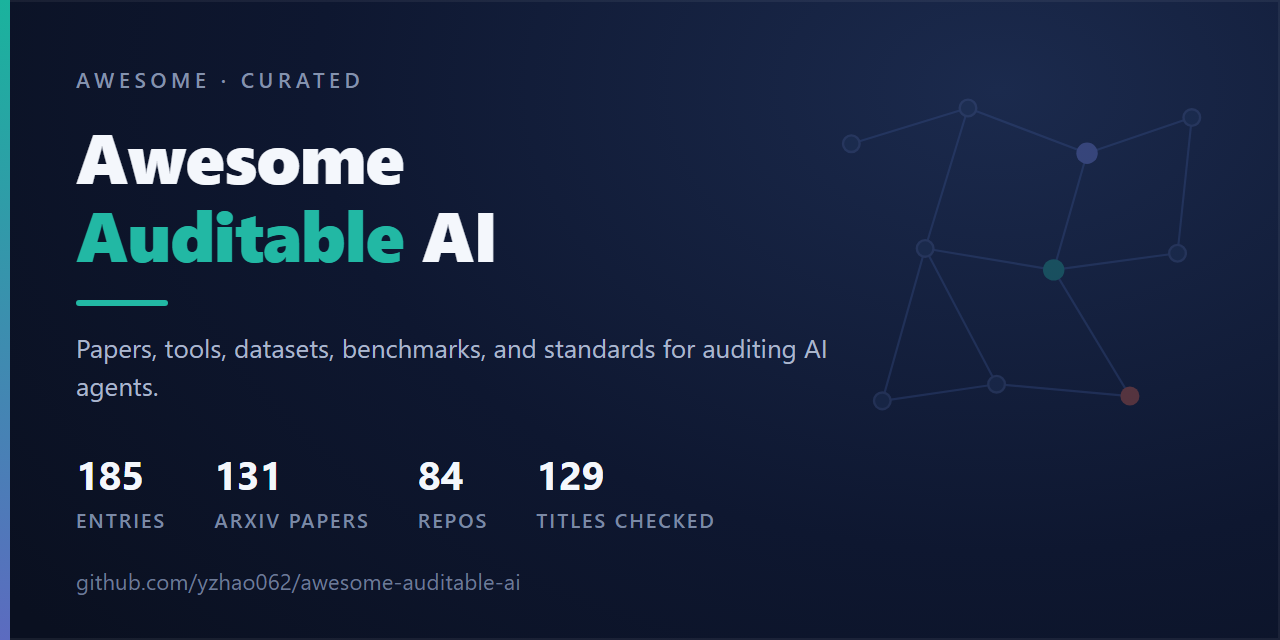
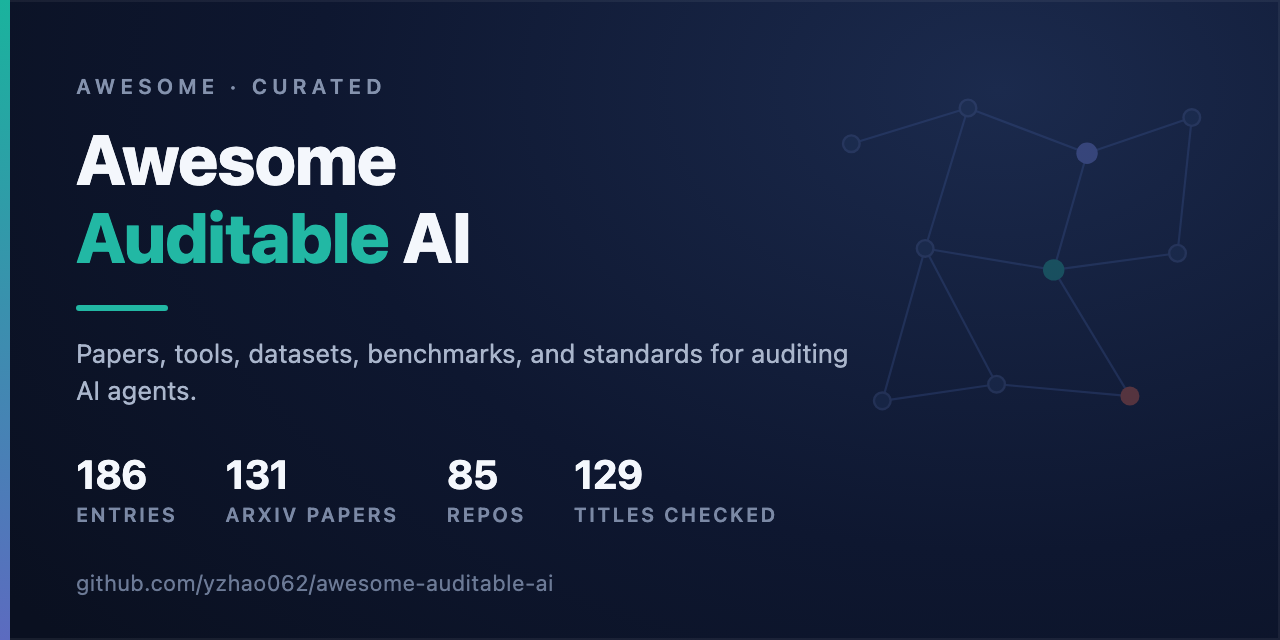
Add AgentRunProof

diff --git a/assets/social-card.html b/assets/social-card.html
@@ -71,9 +71,9 @@
     <div class="tag">Papers, tools, datasets, benchmarks, and standards for auditing AI agents.</div>
 
     <div class="stats">
-      <div class="stat"><div class="n">185</div><div class="l">Entries</div></div>
+      <div class="stat"><div class="n">186</div><div class="l">Entries</div></div>
       <div class="stat"><div class="n">131</div><div class="l">arXiv papers</div></div>
-      <div class="stat"><div class="n">84</div><div class="l">Repos</div></div>
+      <div class="stat"><div class="n">85</div><div class="l">Repos</div></div>
       <div class="stat"><div class="n">129</div><div class="l">Titles checked</div></div>
     </div>
   </div>

diff --git a/README.md b/README.md
@@ -22,7 +22,7 @@
 
 **Agent capability is rising much faster than agent reliability.** *Towards a Science of AI Agent Reliability* (ICML 2026) decomposes reliability into twelve metrics over fifteen models and finds that recent capability gains produced only small reliability gains. The cost of that gap shows up after a run rather than during it: in the original Who&When study (ICML 2025), the strongest of the three attribution methods released with the benchmark identified the responsible agent in 53.5% of 184 annotated failure tasks, drawn from logs of 127 LLM multi-agent systems, and the decisive error step in 14.2%. Later systems in this list, including AgenTracer (ICLR 2026), report gains on that benchmark. What narrows the gap is the quality of the record. TraceElephant (ACL 2026) reports that full execution traces raised step-level attribution accuracy from 17% to 30% in its static-agentic setting, a 76% relative gain over output-only traces.
 
-This list maps the work on that problem: **185 entries across nine sections**, covering 131 unique arXiv papers, 84 GitHub repositories, 16 standards, and one framework. Five papers are deliberately cross-listed, appearing once in a topical section and once as a dataset.
+This list maps the work on that problem: **186 entries across nine sections**, covering 131 unique arXiv papers, 85 GitHub repositories, 16 standards, and one framework. Five papers are deliberately cross-listed, appearing once in a topical section and once as a dataset.
 
 Two properties make the list checkable. Every paper row carries a venue field, so of the 134 table rows, 69 name a publication venue and 65 are marked Preprint; a reader can see the evidence level of a row without opening it. Naming a venue is not the same as peer review, and the field records what the venue is rather than grading it: a non-archival workshop and a main-conference track both appear as what they are. And the citation check goes past asking whether a link responds: each arXiv entry's title is compared with the title the arXiv page itself reports, and only an exact match counts. A near-identical title is not treated as agreement, because that is precisely what a link to the wrong paper in a series looks like; "Part I" against "Part II" scores 0.995 on similarity. The 2026-08-15 run compared 129 entry titles and 131 identifiers across 256 destinations and found no disagreements. It names every destination that refuses automated clients rather than quietly counting it as passing. That run is also what caught a dataset repository going 404 three days after it last resolved. The three destinations it does not audit are this repository's own badges and the pages behind them, and the report names those too.
 
@@ -453,6 +453,8 @@ Tools and platforms for agent observability, evaluation, and reliability. An ins
 **\[Rust, Python\] Microsandbox** ([superradcompany/microsandbox](https://github.com/superradcompany/microsandbox)): self-hosted microVM runtime giving agent code hardware-level isolation at an average boot under 100 milliseconds, spawned in-process with no daemon, with SDKs in five languages. Apache-2.0, 2024-present.
 
 **\[Python\] Giskard** ([Giskard-AI/giskard-oss](https://github.com/Giskard-AI/giskard-oss)): generates adversarial test suites from a plain-language description of the agent across OWASP LLM Top-10 threat categories, with multi-turn agent testing in v3. Apache-2.0, 2022-present.
+
+**\[Python\] AgentRunProof** ([FU-max-boop/agentrunproof](https://github.com/FU-max-boop/agentrunproof)): deterministic runtime-conformance harness for the OpenAI Agents SDK that drives the real `Runner` through scripted responses on the public `Model` interface, and writes content-addressed evidence that can be rechecked without rerunning the SDK; built-in scenarios make no model API calls. MIT-licensed, 2026-present.
 
 ---
 
